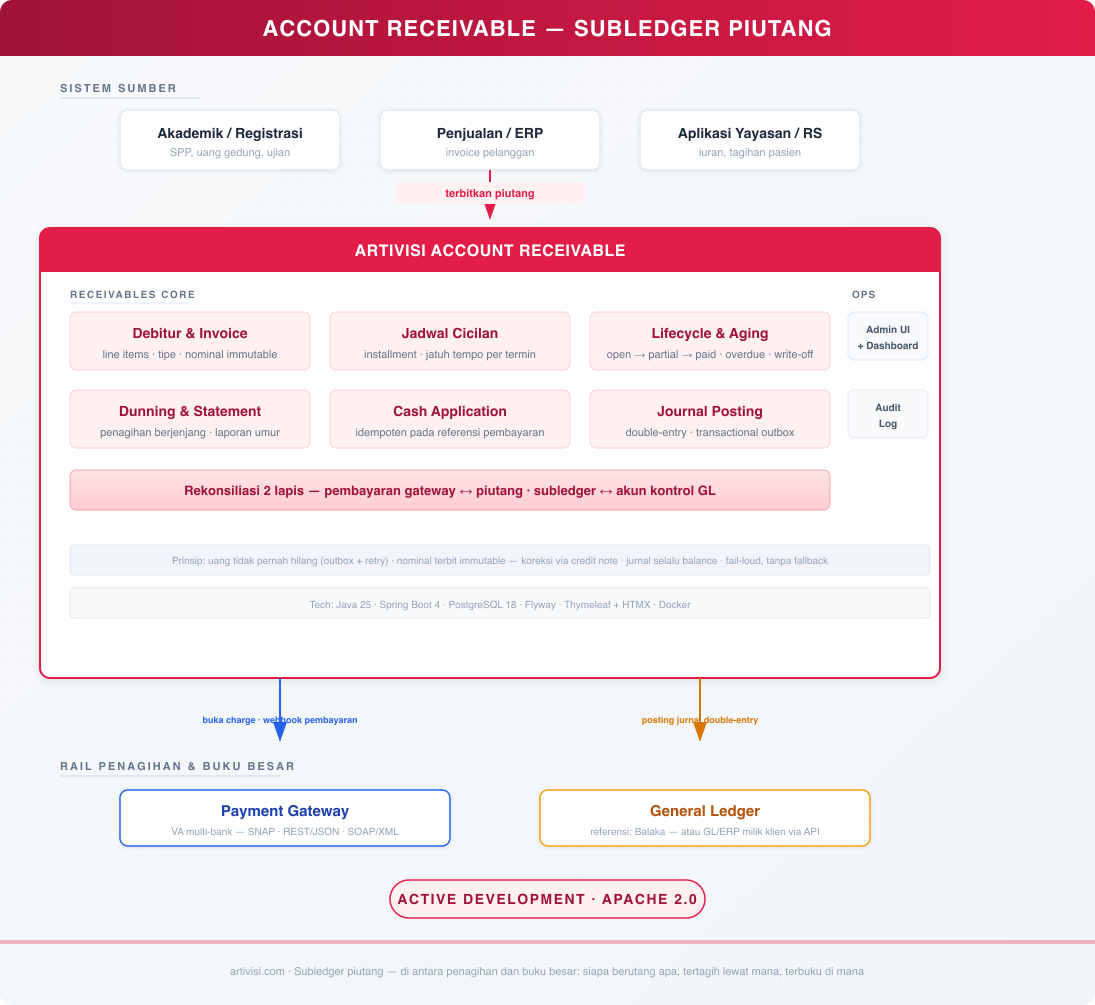
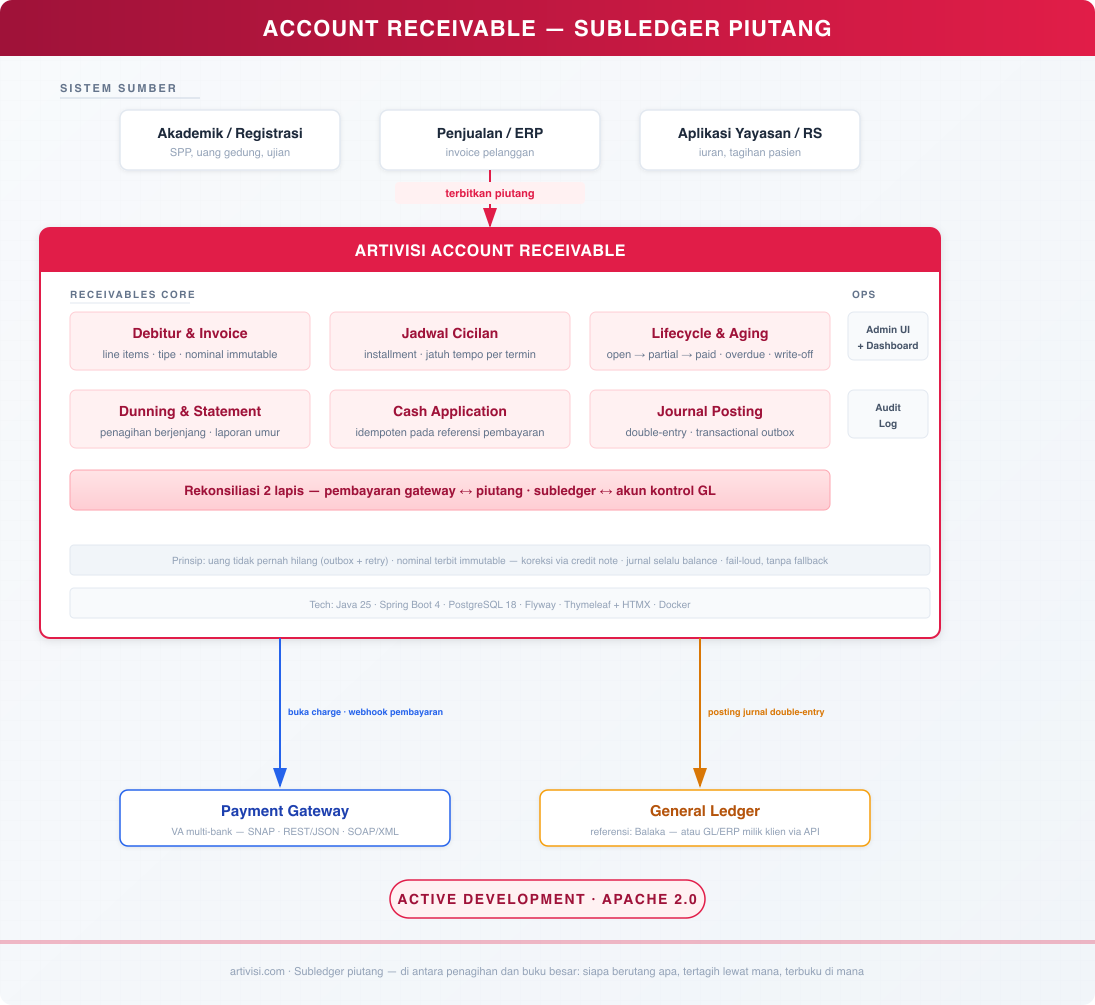
products: fix ecosystem topology and thumbnail rendering
- Ecosystem diagram: drop the generic client/source box — Sawala plays the
  client-app role, posting journals directly to Balaka and creating charges/VAs
  directly at the gateway (no AR in that path); Account Receivable stands on
  its own input (admin UI / CSV / API) with its gateway + GL integrations
- Thumbnails (payment-gateway, account-receivable): connect gateway→bank and
  AR→sibling arrows to their target boxes, extend dashed connectors to the
  layers they point at, move protocol labels beside arrows instead of on them,
  shrink container dead space
- Products index narrative updated to describe both integration patterns

Claude-Session: https://claude.ai/code/session_01TquLFaVMAxPMCUme1mMZ4X

diff --git a/content/products/_index.md b/content/products/_index.md
@@ -9,7 +9,7 @@ Enam produk untuk operasional institusi. Semua open source (Apache 2.0), berjala
 
 ![Ekosistem Aplikasi Production](/img/products/product-ecosystem-production.svg)
 
-**Produk Pembayaran & Piutang** — rantai uang masuk: sistem sumber menerbitkan piutang ke Account Receivable, ditagih via Payment Gateway ke bank, jurnalnya diposting ke buku besar. Klien memiliki hubungan langsung dengan bank, tanpa perantara.
+**Produk Pembayaran & Piutang** — rantai uang masuk: piutang dikelola di Account Receivable (input via admin UI, upload CSV, atau API), ditagih via Payment Gateway ke bank, jurnal diposting ke buku besar. Aplikasi klien juga bisa langsung ke Payment Gateway dan Balaka tanpa melalui Account Receivable — seperti yang dilakukan Sawala. Klien memiliki hubungan langsung dengan bank, tanpa perantara.
 
 | Produk | Fungsi |
 |---|---|
